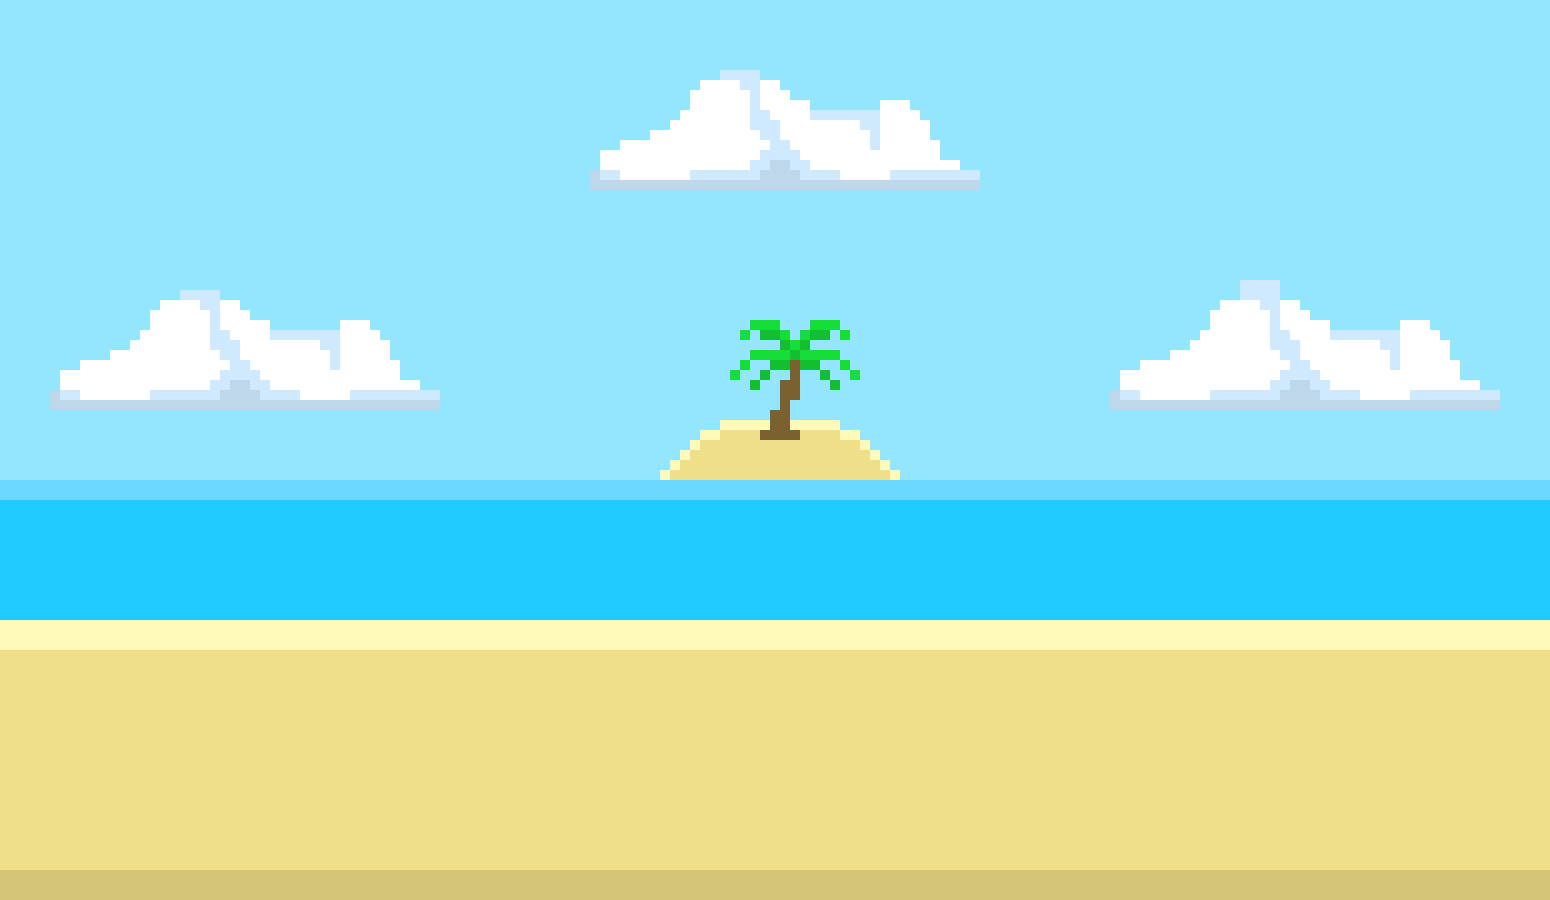
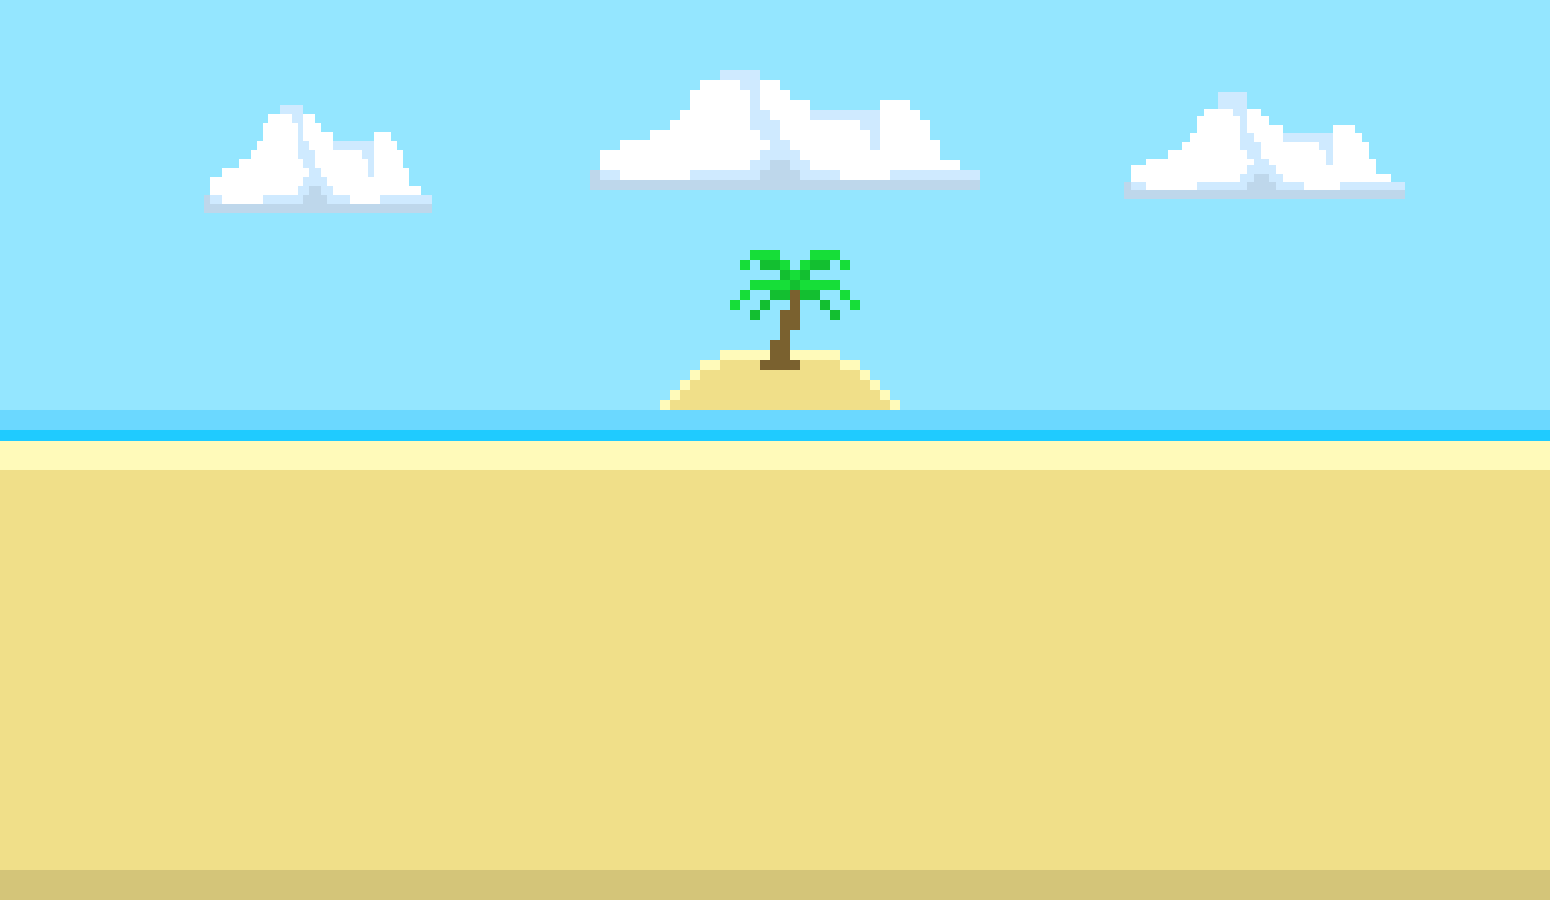
sea borders extended

diff --git a/GameModes/sandbox_mode.py b/GameModes/sandbox_mode.py
@@ -28,7 +28,7 @@ def sandbox(game):
     random.seed(a='4x4x4x4x')
     sel_rect = pygame.Rect(0, 0, 0, 0)
     sel_pos_start = (0, 0)
-    sea_border_y = game.WIN_HEIGHT * 0.6875
+    sea_border_y = game.WIN_HEIGHT * 0.5
 
     offset = usb.rect.left + 5
     btn_width = w / 16
